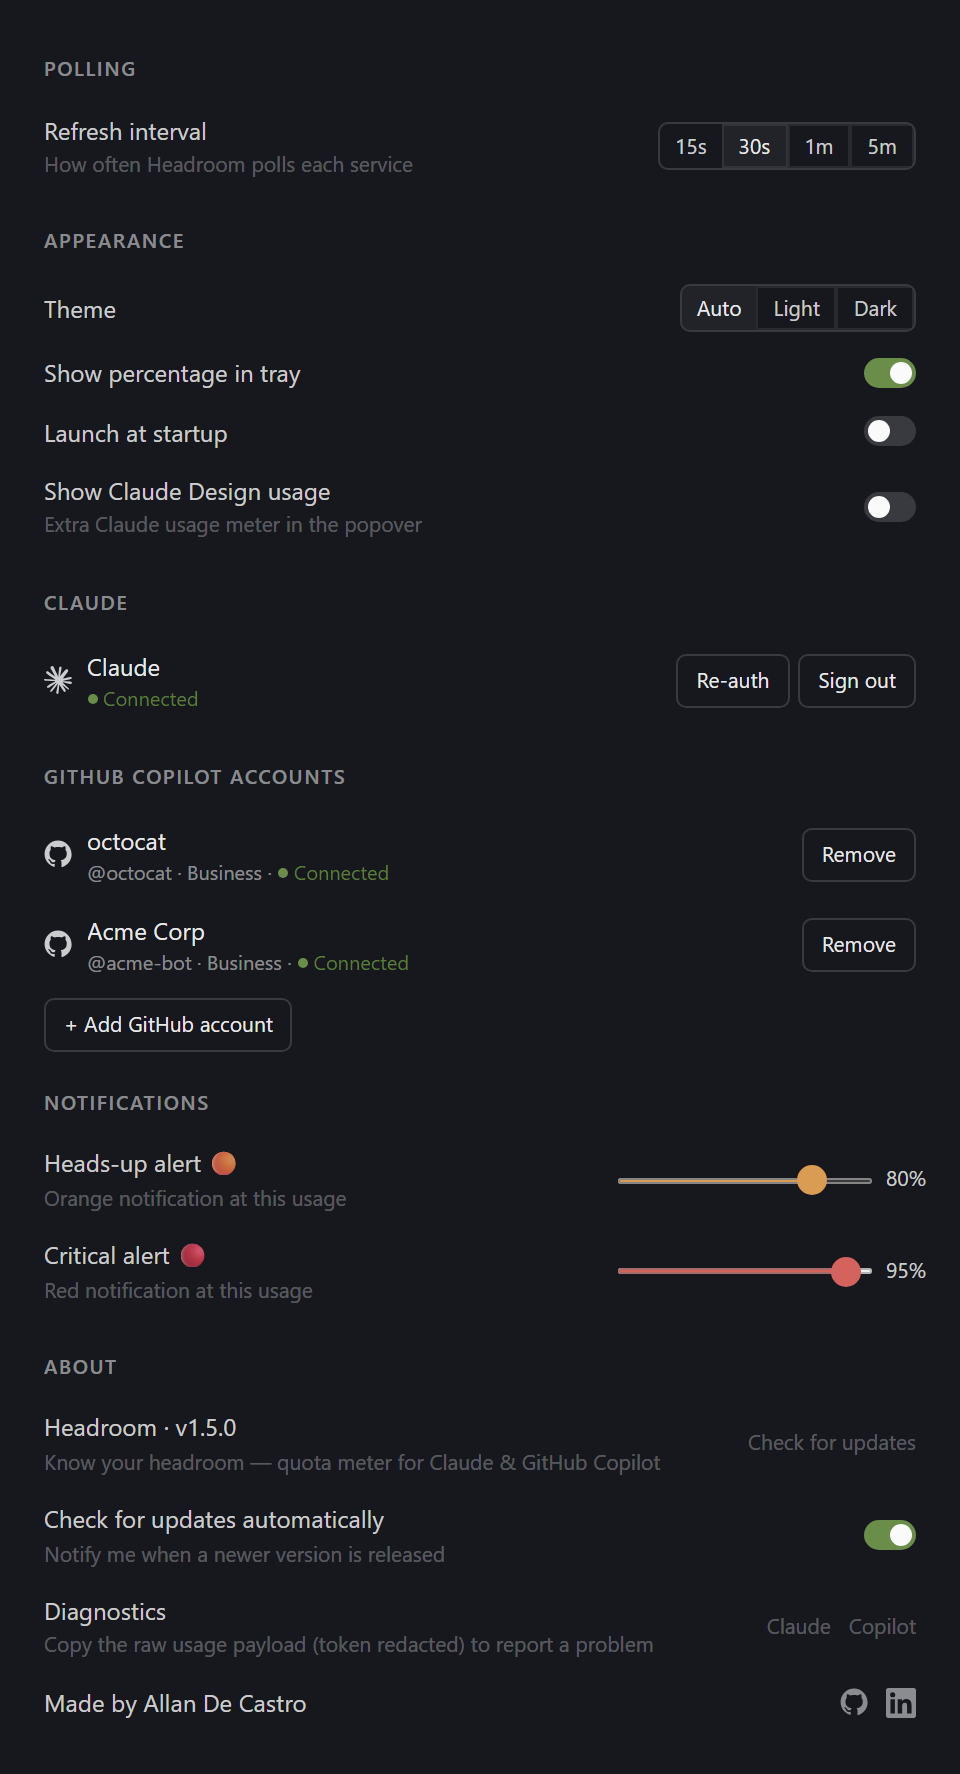
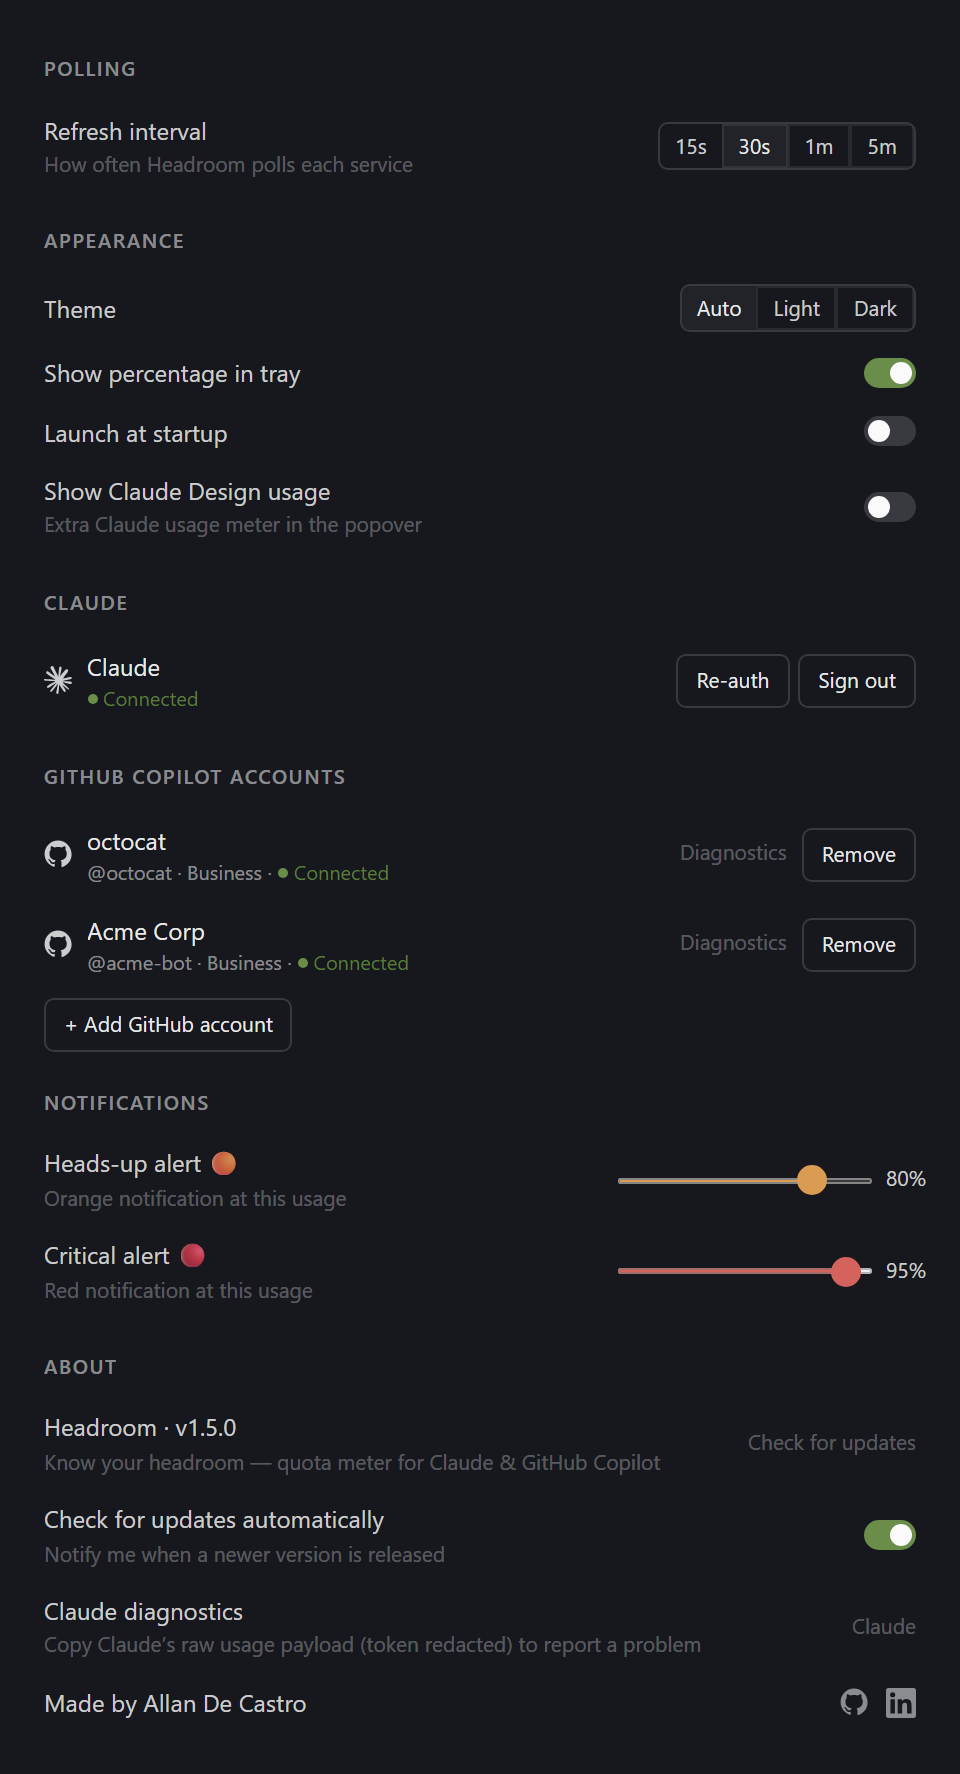
fix(settings): per-account Copilot diagnostics
With multiple Copilot accounts, the Settings → About "Copilot" diagnostics
button always grabbed the FIRST account's payload — there was no way to get
a second account's. Move diagnostics into each account row (a "Diagnostics"
action scoped to that account via copilot_diagnostics(account_id)) and drop
the ambiguous generic button; the About row is now Claude-only.

The per-card "Copy diagnostics" button (on an unparseable card) was already
account-aware; this closes the gap for the Settings surface.

Regenerates settings.png to match.

diff --git a/src/SettingsPanel.tsx b/src/SettingsPanel.tsx
@@ -181,7 +181,30 @@ function CopilotAccountRow({
   onChange: () => void;
 }) {
   const [label, setLabel] = useState(account.label);
+  const [diagState, setDiagState] = useState<'idle' | 'copying' | 'done' | 'error'>('idle');
   const state = svc?.state;
+
+  // Copy THIS account's raw payload (token redacted) — account-scoped so the
+  // right account's diagnostics land on the clipboard with several connected.
+  async function copyDiag() {
+    setDiagState('copying');
+    try {
+      await navigator.clipboard.writeText(await copilotDiagnostics(account.id));
+      setDiagState('done');
+      setTimeout(() => setDiagState('idle'), 1500);
+    } catch (e) {
+      console.error(e);
+      setDiagState('error');
+    }
+  }
+  const diagLabel =
+    diagState === 'copying'
+      ? 'Copying…'
+      : diagState === 'done'
+        ? 'Copied ✓'
+        : diagState === 'error'
+          ? 'Failed'
+          : 'Diagnostics';
 
   const statusEl =
     state === 'active' ? (
@@ -222,6 +245,13 @@ function CopilotAccountRow({
           {svc?.plan ? ` · ${svc.plan}` : ''} · {statusEl}
         </span>
       </div>
+      <button
+        onClick={copyDiag}
+        disabled={diagState === 'copying'}
+        className="text-[10.5px] text-fg-quaternary hover:text-fg-secondary disabled:opacity-60"
+      >
+        {diagLabel}
+      </button>
       <Button
         className="text-xxs px-[9px] py-[3px]"
         onClick={() => removeCopilotAccount(account.id).then(onChange).catch(console.error)}
@@ -615,9 +645,9 @@ export default function SettingsPanel() {
           </Row>
           <Row>
             <div className="flex flex-1 flex-col">
-              <span className="text-[12px] text-fg-secondary">Diagnostics</span>
+              <span className="text-[12px] text-fg-secondary">Claude diagnostics</span>
               <span className="mt-0.5 text-[10.5px] text-fg-quaternary">
-                Copy the raw usage payload (token redacted) to report a problem
+                Copy Claude’s raw usage payload (token redacted) to report a problem
               </span>
             </div>
             <div className="flex items-center gap-3">
@@ -627,13 +657,6 @@ export default function SettingsPanel() {
                 className="text-[10.5px] text-fg-quaternary hover:text-fg-secondary disabled:opacity-60"
               >
                 {diagLabel('claude', 'Claude')}
-              </button>
-              <button
-                onClick={() => copyDiagnostics('copilot')}
-                disabled={diag?.state === 'copying'}
-                className="text-[10.5px] text-fg-quaternary hover:text-fg-secondary disabled:opacity-60"
-              >
-                {diagLabel('copilot', 'Copilot')}
               </button>
             </div>
           </Row>
